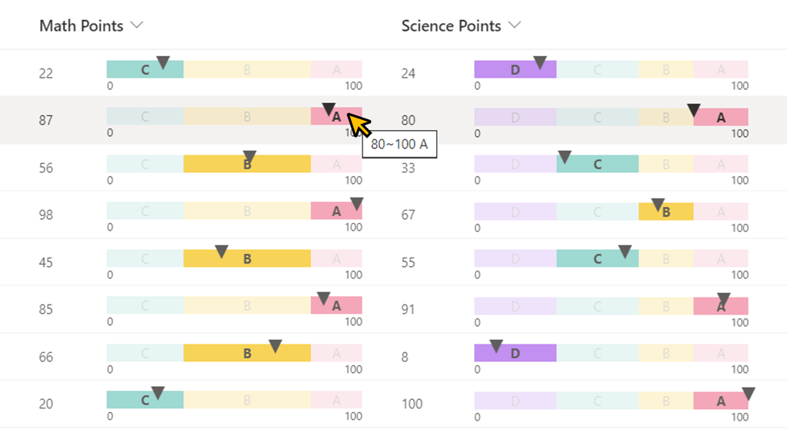
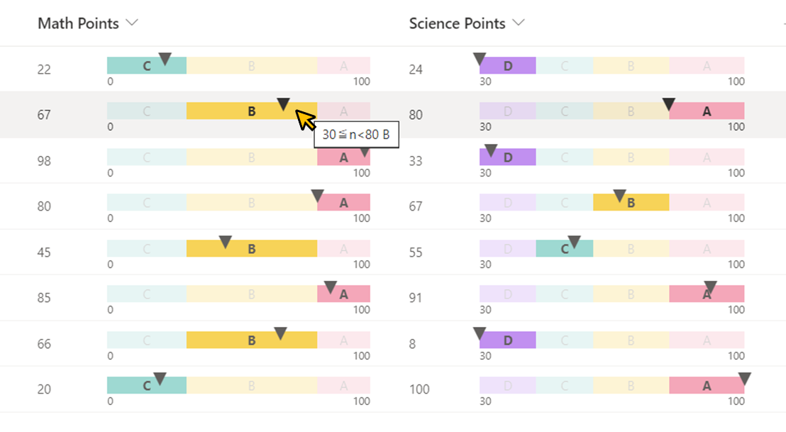
Fixed layout corruption except when the minimum value is 0

diff --git a/column-samples/number-linear-gauge/README.md b/column-samples/number-linear-gauge/README.md
@@ -2,7 +2,7 @@
 
 ## Summary
 
-This sample demonstrates displaying a linear gauge.
+This sample demonstrates displaying a linear gauge from a regular string set to the split operator.
 
 ![screenshot of the sample](./assets/screenshot.png)
 
@@ -34,20 +34,29 @@ This sample needs modification for your specific use. Two changes are required.
 2. Adjust the numerical range, background color, and range name for each range according to your use case. Use a comma-separated format.
 
     ```
-    "forEach": "_range in split('NUMERICAL_RANGE:BACKGROUND_COLOR:RANGE_NAME',',')",
+    "forEach": "_range in split('RANGE_MIN[<= or <]n[<= or <]RANGE_MAX:BACKGROUND_COLOR:RANGE_NAME',',')",
 
     # Example
     "forEach": "_range in split('0<=n<30:#9ED9D2:C,30<=n<80:#F7D358:B,80<=n<=100:#F4A7B9:A',',')",
     ```
 
-    - **NUMERICAL_RANGE:** Specifies the range of values for each segment of the linear gauge.
+    - **RANGE_MIN[<= or <]n[<= or <]RANGE_MAX:** Specifies the range of values for each segment of the linear gauge.
         - Example: `0<=n<30`, `0<n<=30`, `0<=n<=30`, `0<n<30`
+
     - **BACKGROUND_COLOR:** Defines the background color for the respective range.
         - Example: `#9ED9D2`, `Blue`
-    - **RANGE_NAME:** Set the text to be displayed in the range.
-        - Example: `A`, `B`
 
-     ![screenshot of the range setting](./assets/range-setting.png)
+    - **RANGE_NAME:** Set the text to be displayed in the range.
+        - Example: `A`, `Range_B`, `Great`
+
+    ![screenshot of the range setting](./assets/range-setting.png)
+
+    > [!NOTE]  
+    > - Expressions such as `n>=20` or `20<n` are not acceptable for numeric ranges. Please strictly adhere to the specified format `RANGE_MIN[<= or <]n[<= or <]RANGE_MAX`.
+    > - The value range can exceed the linear gauge's min and max.
+    > - Make sure that the values do not overlap between ranges.
+    > - Avoid single-byte spaces in the string to prevent errors. For single-byte spaces in range names, use an underscore (\_) instead. The underscore (\_) will be converted to half-width spaces when displayed. (Related link: [#642](https://github.com/pnp/List-Formatting/issues/642))
+    > - Do not use `<`, `:`, and `=` in range names.
 
 #### Range setting examples:
 
@@ -71,12 +80,6 @@ This sample needs modification for your specific use. Two changes are required.
     90<=n<=100:#FFD700:Range_D
     ```
 
-> [!NOTE]  
-> - Avoid using single-byte spaces in range names to prevent errors. Instead, use an underscore (_), which will be replaced with single-byte spaces when displayed. (Related link: [#642](https://github.com/pnp/List-Formatting/issues/642))
-> - Do not use '<' in range names.
-> - Make sure that the values do not overlap between ranges.
-> - The value range can exceed the linear gauge's min and max.
-
 ## Sample
 
 Solution|Author(s)
@@ -97,13 +100,24 @@ Version |Date             |Comments
 ## Additional notes
 
 - The linear gauge adjusts based on the column width.
-- The linear gauge is built using the following formulas.
-    ![screenshot of the formula](./assets/formula.png)
+- The style properties of each range are set to the following values:  
+
+    ![screenshot of the explanatorydiagram](./assets/explanatory-diagram.png)  
+
+    |Style|Value|
+    |---|---|
+    |display|<ul><li>**if (Rmax<=Gmin&#124;&#124;Gmax<=Rmin&#124;&#124;Rmin>Rmax):** none</li><li>**Otherwise:** flex</li></ul>|
+    |width|<ul><li>**if (Rmin<Gmin):** $$\frac{R_{max}-G_{min}}{G_{max}-G_{min}}*100\%$$</li><li>**Otherwise:** $$\frac{R_{max}-R_{min}}{G_{max}-G_{min}}*100\%$$</li></ul>|
+    |max-width|<ul><li>**if (Rmin<Gmin):** $$\frac{G_{max}-G_{min}}{G_{max}-G_{min}}*100\%$$</li><li>**Otherwise:** $$\frac{G_{max}-R_{min}}{G_{max}-G_{min}}*100\%$$</li></ul>|
+    |left|<ul><li>**if (Rmin<Gmin):** $$\frac{0}{G_{max}-G_{min}}*100\%$$</li><li>**Otherwise:** $$\frac{R_{min}-G_{min}}{G_{max}-G_{min}}*100\%$$</li></ul>|
+
+    The characters used in the above formula and their meanings are as follows:        
+
     |Character|Meaning|Formula in JSON|
     |---|---|---|
-    |Gmax|Max value of linear gauge|Number\(substring\(\[$_overallRange\],indexOf\(\[$_overallRange\],'max:'\)+4,indexOf\(\[$_overallRange\]+'^','^'\)\)\)|
-    |Gmin|Min value of linear gage|Number\(substring\(\[$_overallRange\],indexOf\(\[$_overallRange\],'min:'\)+4,indexOf\(\[$_overallRange\],','\)\)\)|
-    |Rmax|Max value of each range|Number\(replaceAll\(substring\(\[$_range\],lastIndexOf\(\[$_range\],'<'\)+1,indexOf\(\[$_range\],':'\)\),'=',''\)\)|
-    |Rmin|Min value of each range|Number\(substring\(\[$_range\],0,indexOf\(\[$_range\],'<'\)\)\)|
+    |$$G_{max}$$|Max value of linear gauge|Number\(substring\(\[$_overallRange\],indexOf\(\[$_overallRange\],'max:'\)+4,indexOf\(\[$_overallRange\]+'^','^'\)\)\)|
+    |$$G_{min}$$|Min value of linear gauge|Number\(substring\(\[$_overallRange\],indexOf\(\[$_overallRange\],'min:'\)+4,indexOf\(\[$_overallRange\],','\)\)\)|
+    |$$R_{max}$$|Max value of each range|Number\(replaceAll\(substring\(\[$_range\],lastIndexOf\(\[$_range\],'<'\)+1,indexOf\(\[$_range\],':'\)\),'=',''\)\)|
+    |$$R_{min}$$|Min value of each range|Number\(substring\(\[$_range\],0,indexOf\(\[$_range\],'<'\)\)\)|
 
 <img src="https://pnptelemetry.azurewebsites.net/list-formatting/column-samples/number-linear-gauge" />
